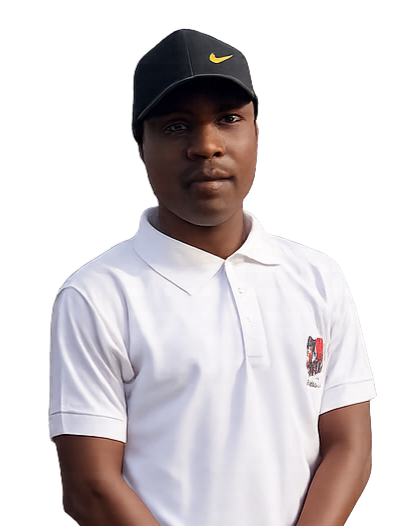
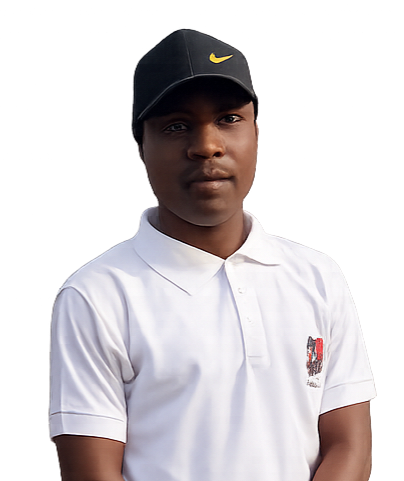
new updated portfolio

diff --git a/src/App.css b/src/App.css
@@ -49,7 +49,7 @@ body {
 }
 
 .profile {
-  margin: 80px 30px 0 0;
+  margin: 20px 30px 0 0;
 }
 
 .profile h1 {
@@ -67,7 +67,7 @@ body {
 .profile-img img {
   margin-left: 50px;
   border-radius: 50%;
-  height: 450px;
+  height: 340px;
 }
 
 .profile-start-btn {
